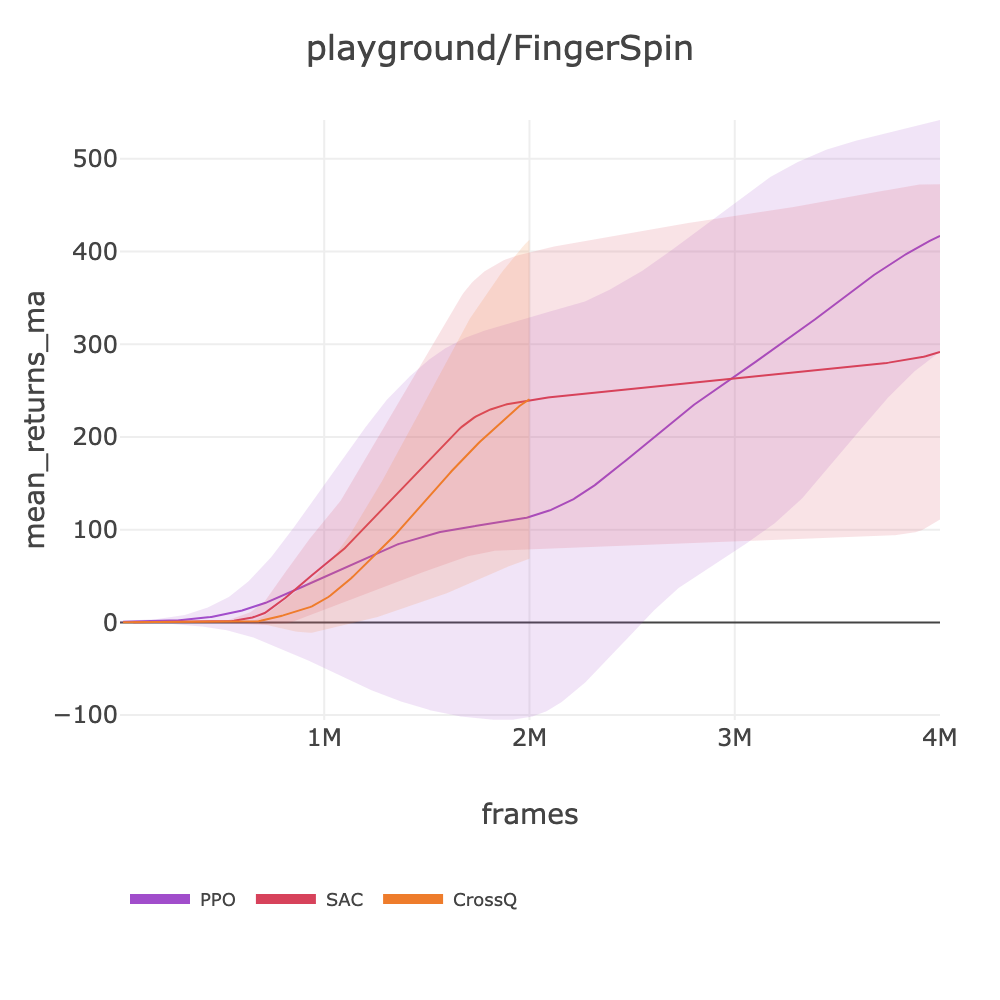
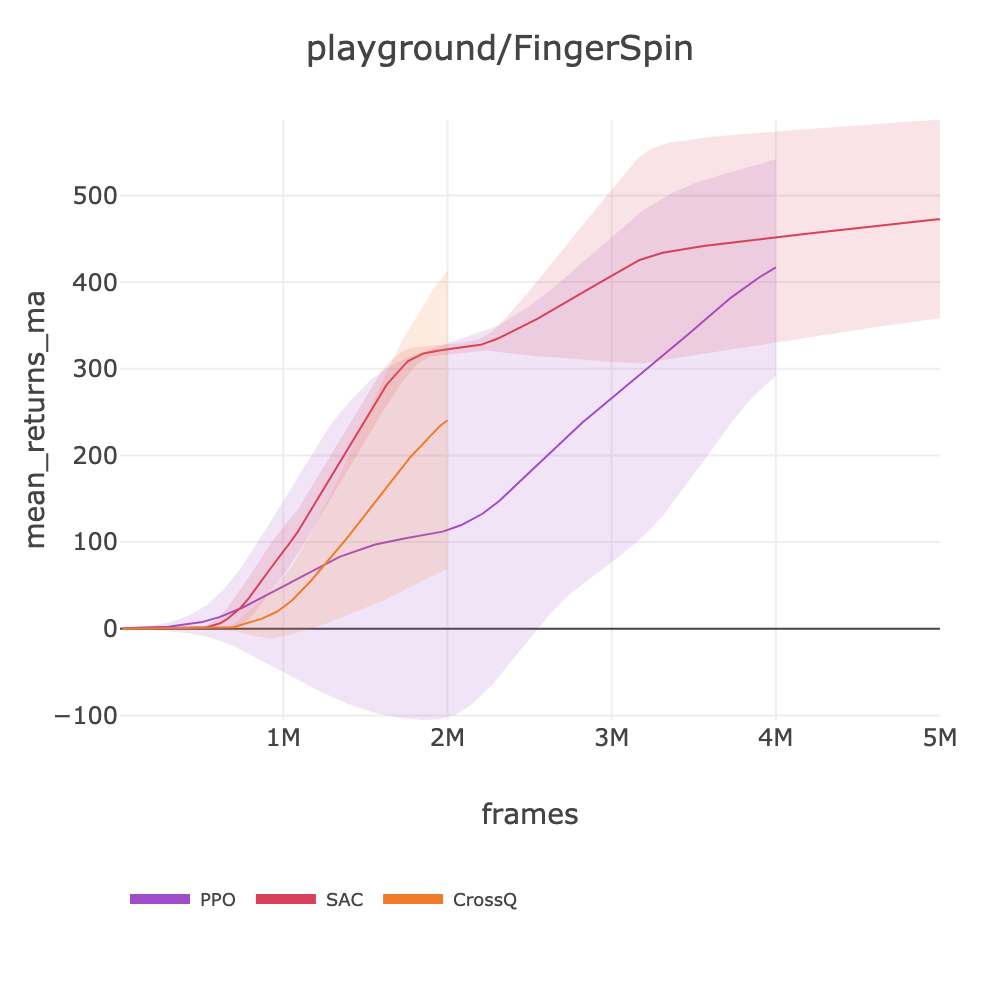
feat: intake SAC FingerSpin score=472.65 (5M frames)
Improved from 291.70 (4M) to 472.65 (5M frames).
Updated plot with PPO+SAC+CrossQ comparison.

diff --git a/docs/BENCHMARKS.md b/docs/BENCHMARKS.md
@@ -851,7 +851,7 @@ source .env && uv run slm-lab run-remote --gpu --playground \
 | | SAC | ❌ | 112.59 | sac_playground_arc_fast | [sac_playground_arc_cheetahrun_2026_03_06_094013](https://huggingface.co/datasets/SLM-Lab/benchmark-dev/tree/main/data/sac_playground_arc_cheetahrun_2026_03_06_094013) | | ~140 | 2M | ~4.0h |
 | playground/FingerSpin | PPO | ❌ | 416.99 | ppo_playground_arc | [ppo_playground_arc_fingerspin_2026_03_07_100519](https://huggingface.co/datasets/SLM-Lab/benchmark-dev/tree/main/data/ppo_playground_arc_fingerspin_2026_03_07_100519) | ~742 | ~410 | 4M | ~2.7h |
 | | CrossQ | ❌ | 240.68 | crossq_playground_arc | [crossq_playground_arc_easy_fingerspin_2026_03_07_185137](https://huggingface.co/datasets/SLM-Lab/benchmark-dev/tree/main/data/crossq_playground_arc_easy_fingerspin_2026_03_07_185137) | | ~300 | 2M | ~1.9h |
-| | SAC | ❌ | 291.70 | sac_playground_arc_fast | [sac_playground_arc_fast_fingerspin_2026_03_09_180920](https://huggingface.co/datasets/SLM-Lab/benchmark-dev/tree/main/data/sac_playground_arc_fast_fingerspin_2026_03_09_180920) | | ~641 | 4M | ~1.7h |
+| | SAC | ❌ | 472.65 | sac_playground_arc_fast | [sac_playground_arc_fast_fingerspin_2026_03_10_095208](https://huggingface.co/datasets/SLM-Lab/benchmark-dev/tree/main/data/sac_playground_arc_fast_fingerspin_2026_03_10_095208) | | ~751 | 5M | ~1.8h |
 | playground/FingerTurnEasy | PPO | ❌ | 346.28 | ppo_playground_arc | [ppo_playground_arc_fingerturneasy_2026_03_07_100527](https://huggingface.co/datasets/SLM-Lab/benchmark-dev/tree/main/data/ppo_playground_arc_fingerturneasy_2026_03_07_100527) | ~709 | ~409 | 4M | ~2.7h |
 | | CrossQ | ❌ | 364.69 | crossq_playground_arc | [crossq_playground_arc_easy_fingerturneasy_2026_03_07_185125](https://huggingface.co/datasets/SLM-Lab/benchmark-dev/tree/main/data/crossq_playground_arc_easy_fingerturneasy_2026_03_07_185125) | | ~300 | 2M | ~1.9h |
 | | SAC | ❌ | 408.73 | sac_playground_arc_fast | [sac_playground_arc_fingerturneasy_2026_03_06_134326](https://huggingface.co/datasets/SLM-Lab/benchmark-dev/tree/main/data/sac_playground_arc_fingerturneasy_2026_03_06_134326) | | ~350 | 1M | ~0.8h |
